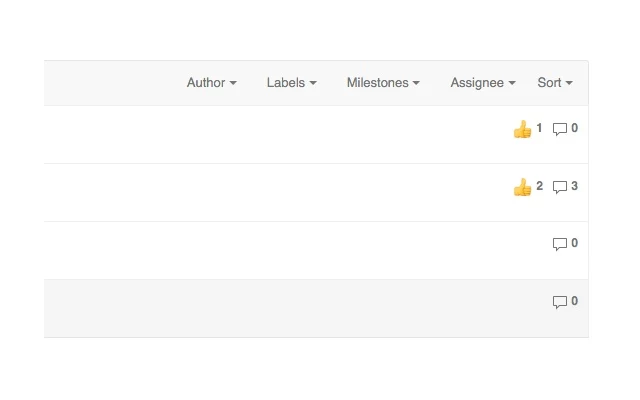
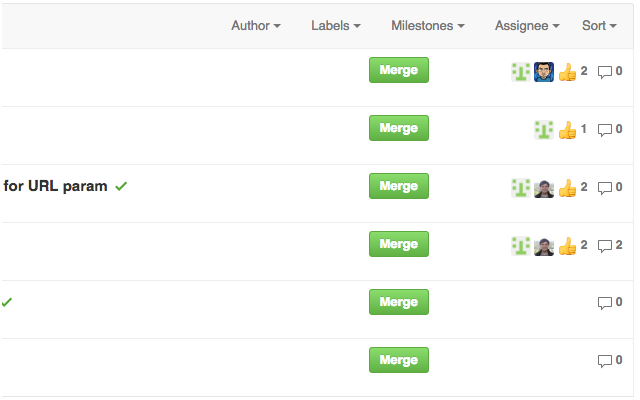
Add quick merge button in pull request list

diff --git a/github-extensions.js b/github-extensions.js
@@ -54,6 +54,7 @@ Approvers.prototype.getTimestamp = function(i) {
 var uniqueId = 1;
 var scriptId = 'github-extensions-';
 var emojiId  = scriptId + 'emoji-plusone';
+var mergeId  = scriptId + 'merge-';
 var pageUrl  = $(location).attr('href');
 
 // Pull request
@@ -70,31 +71,48 @@ if (pageUrl.indexOf('/pull/') > -1) {
 // Pull request listing
 if (pageUrl.indexOf('/pulls') > -1) {
   $('.js-issue-row').each(function() {
-    var issueRow            = $(this);
-    var issueUrl            = issueRow.find('a.issue-title-link').attr('href');
-    var issueTitleContainer = issueRow.find('.table-list-cell.issue-title');
-    var commentsContainer   = issueRow.find('.issue-comments');
+    var prRow             = $(this);
+    var prId              = prRow.attr('id');
+    var prUrl             = prRow.find('a.issue-title-link').attr('href');
+    var prTitleContainer  = prRow.find('.table-list-cell.issue-title');
+    var commentsContainer = prRow.find('.issue-comments');
     
-    issueTitleContainer.width('650px');
-    commentsContainer.width('170px');
+    prTitleContainer.width('580px');
+    commentsContainer.width('180px');
     
-    $.get('https://github.com' + issueUrl, function(data) {
-      var html           = $.parseHTML(data);
-      var approvers      = new Approvers($(html));
-      var buildStatuses  = $(html).find('a.build-status-details');
+    $.get('https://github.com' + prUrl, function(data) {
+      var html          = $.parseHTML(data);
+      var buildStatuses = $(html).find('a.build-status-details');
       
       // Links commit build status to CI build details page
       if (buildStatuses.length > 0) {
         var buildStatusUrl = buildStatuses.first().attr('href');
         
         if (buildStatusUrl) {
-          var commitBuildStatuses = issueRow.find('.commit-build-statuses');
+          var commitBuildStatuses = prRow.find('.commit-build-statuses');
           
           if (commitBuildStatuses.length > 0) {
             commitBuildStatuses.first().find('a.tooltipped.tooltipped-e').attr('href', buildStatusUrl);
           }
         }
       }
+      
+      var authToken         = $(html).find('input[name="authenticity_token"]').val();
+      var headSha           = $(html).find('input[name="head_sha"]').val();
+      var formUtf8          = $(html).find('input[name="utf8"]').val();
+      var formCommitTitle   = $(html).find('input[name="commit_title"]').val();
+      var formCommitMessage = $(html).find('textarea[name="commit_message"]').val();
+      var sibling           = prRow.find('div.table-list-cell.table-list-cell-avatar');
+      
+      // Shows merge button
+      if ($(html).find('div.state.state-open').length > 0
+      && $(html).find('button.js-merge-branch-action').length > 0) {
+        createMergeButton(sibling, prId, prUrl, authToken, headSha, formUtf8, formCommitTitle, formCommitMessage);
+      } else {
+        sibling.after('<div class="table-list-cell" style="width: 60px;">&nbsp;</div>');
+      }
+      
+      var approvers = new Approvers($(html));
       
       if (approvers.size() > 0) {
         var approverIcons    = createAvatarImgTags(approvers);
@@ -113,7 +131,7 @@ if (pageUrl.indexOf('/pulls') > -1) {
         
         linkTitle += (approvers.size() == 1 ? ' has' : ' have') + ' approved this pull request';
         
-        commentsContainer.prepend('<div id="' + scriptId + (uniqueId++) + '" style="display: inline-block;">' + approverIcons + '<a href="' + issueUrl + '" class="muted-link" title="' + linkTitle + '">' + thumbsUpIcon + '&nbsp;' + approvers.size() + '</a></div>&nbsp;&nbsp;');
+        commentsContainer.prepend('<div id="' + scriptId + (uniqueId++) + '" style="display: inline-block;">' + approverIcons + '<a href="' + prUrl + '" class="muted-link" title="' + linkTitle + '">' + thumbsUpIcon + '&nbsp;' + approvers.size() + '</a></div>&nbsp;&nbsp;');
         messageContainer.contents().last().replaceWith('&nbsp;' + (messageCount - approvers.size()));
       }
     });
@@ -141,4 +159,32 @@ function createReactionButtons() {
   // TODO: Add more emojis
   $('#' + emojiId).remove();
   return '<button id="' + emojiId + '" type="button" class="toolbar-item js-toolbar-item tooltipped-n" aria-label="+1" tabIndex="-1" data-suffix=":+1:"><img class="emoji" title=":+1:" alt=":+1:" src="https://assets-cdn.github.com/images/icons/emoji/unicode/1f44d.png" height="20" width="20" align="absmiddle" /></button>';
+}
+
+function createMergeButton(sibling, prId, prUrl, authToken, headSha, formUtf8, formCommitTitle, formCommitMessage) {
+  var button = $('#' + mergeId + prId);
+  button.parent().remove();
+  
+  sibling.after('<div class="table-list-cell" style="width: 60px;"><button id="' + mergeId + prId + '" class="btn btn-sm btn-primary js-merge-branch-action" type="button" style="vertical-align: middle;">Merge</button></div>');
+  button = $('#' + mergeId + prId);
+  
+  button.click(function() {
+    $(this).prop('disabled', true);
+    
+    $.post('https://github.com' + prUrl + '/merge', {
+      utf8: formUtf8,
+      authenticity_token: authToken,
+      head_sha: headSha,
+      commit_title: formCommitTitle,
+      commit_message: formCommitMessage
+    }, function(data, status, xhr) {
+      if (status === 'success') {
+        button.parent().remove();
+        sibling.after('<div class="table-list-cell" style="width: 60px;"><div class="state state-merged">Merged</div></div>');
+      } else {
+        button.removeClass('btn-primary');
+        button.text('Failed');
+      }
+    });
+  });
 }

diff --git a/README.md b/README.md
@@ -1,6 +1,7 @@
 #A bunch of little enhancements for GitHub web
 
 ##Features:
+* **Quick Merge** - Merge any ready-to-merge pull requests directly in pull request listing
 * **Approvers Avatar** - Shows reviewers avatar who have approved the pull request
 * **Plus-One Counter** - Shows plus-one counts for all pull requests at once, and adjust the message count to exclude plus-one comments
 * **Link to CI build** - The commit build status icon now links to the correspond CI build details page (if CI is integrated)
